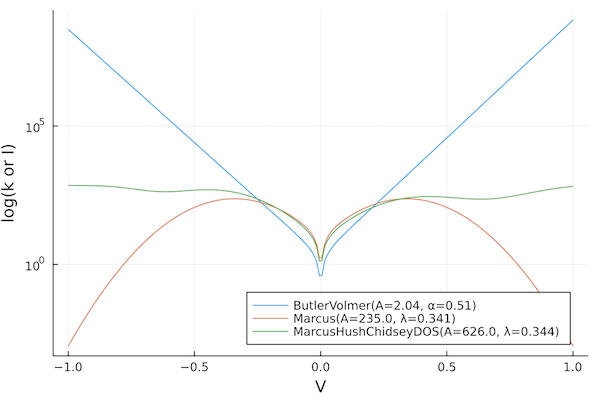
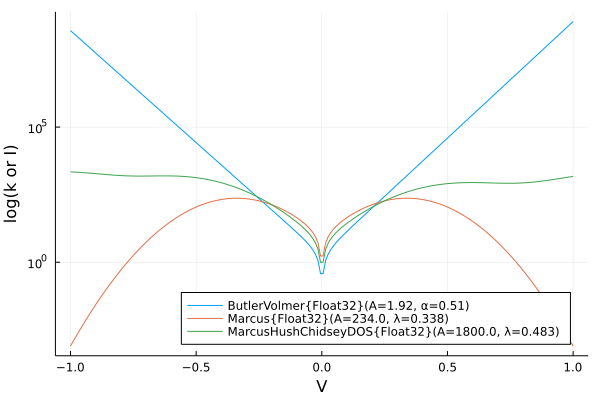
update readme, etc.

diff --git a/README.md b/README.md
@@ -6,18 +6,20 @@ This package implements a variety of models for rates of electrochemical reactio
 ### Building and Evaluating Models
 We can construct a simple Butler-Volmer model with symmetric electron transfer as follows:
 ```julia
-julia> bv = ButlerVolmer(1.0)
+julia> bv = ButlerVolmer()
 ButlerVolmer(A=1.0, α=0.5)
 ```
 To evaluate the model and find the reaction rate at a given voltage is as simple as:
 ```julia
 julia> bv(0.1)
-6.695821798442868
+6.865409234059785
 ```
+(note that this is equivalent to `rate_constant(0.1, bv)`, but this "callable" syntax is often convenient)
+
 By default, this computes the net reaction rate. We can also get the rate only in the oxidative direction by passing the `ox` flag:
 ```julia
 julia> bv(0.1, true)
-6.84197835551441
+7.0081012366762145
 ```
 Let's try a fancier model now. The `MarcusHushChidseyDOS` model requires information about the density of states of the electrode, which we can read from a file:
 ```julia
@@ -42,8 +44,8 @@ Another feature we support for `MarcusHushChidseyDOS` models is incorporating th
 julia> mhcd = MarcusHushChidseyDOS(0.82, "data/DOSes/bernal_graphene.txt")
 MarcusHushChidseyDOS(A=1.0, λ=0.82)
 
-julia> rate_constant(0.4, mhcd; calc_cq=true, Vq_min=-0.45, Vq_max=0.45)
-0.00044958691359217384
+julia> rate_constant(0.15, mhcd, true; calc_cq=true, Vq_min=-0.3, Vq_max=0.3, E_min = -0.6, E_max=0.6)
+2.8017566534572208e-5
 ```
 
 ### Fitting and Comparing Models
@@ -77,43 +79,44 @@ julia> plot_models(models)
 ```
 <img src="img/plot2.png" alt="models">
 
+### Electrochemical Phase Diagrams
+For more on this, see upcoming paper: [arxiv link placeholder]
+
 ## Supported Models
-(I hope the equations below are visible in both dark and light mode...)
 ### Butler-Volmer
-Probably the most basic (and entirely empirical) kinetic model. The rate constants are given by:
+Probably the most basic (and largely empirical) kinetic model. The rate constants are given by:
 
-<img src="img/bv_ox.png" alt="BV_ox">
+$$k_{\text{ox}}^{\text{BV}}(\eta)=A\exp\left(\frac{\alpha\eta}{k_{\text B}T}\right)\\k_{\text{red}}^{\text{BV}}(\eta)=A\exp\left(\frac{(1-\alpha)\eta}{k_{\text B}T}\right)$$
 
-<img src="img/bv_red.png" alt="BV_red">
-
-Implemented in the package as `ButlerVolmer`, possessing two fields: the prefactor `A` and the transfer coefficient `α`.
+It is implemented in the package as `ButlerVolmer`, possessing two fields: the prefactor `A` and the transfer coefficient `α`.
 
 ### Marcus
 One step up with a bit of mechanism...
 
-<img src="img/Marcus.png" alt="Marcus_k">
+$$k_{\text{red/ox}}^{\text{Marcus}}(\eta) = A\exp\left(-\frac{(\lambda\pm\eta)^2}{4k_{\text B}T}\right)$$
 
 Implemented in the package as `Marcus`, with parameters for prefactor `A` and reorganization energy `λ`.
 
 ### Marcus-Hush-Chidsey
 Originated from [Chidsey's 1991 paper](https://dx.doi.org/10.1126/science.251.4996.919).
 
-<img src="img/MHC.png" alt="MHC_k">
+$$k_{\text{red/ox}}^{\text{MHC}}(\eta) = A\int_{-\infty}^\infty \exp\left(-\frac{(\varepsilon-\lambda\mp\eta)^2}{4k_{\text B}T}\right)f_{\text{FD}}(\varepsilon, T)\mathrm d\varepsilon$$
 
 Implemented as `MarcusHushChidsey`, with prefactor `A`, reorganization energy `λ`, and also an `average_dos` parameter (which defaults to 1.0), which is useful for making direct comparisons against `MarcusHushChidseyDOS` (see below).
 
 ### Asymptotic Marcus-Hush-Chidsey
-Originated from [Zeng et al. 2014](https://dx.doi.org/10.1016/j.jelechem.2014.09.038d) (equation 17). Note that in their notation, $\eta$ is scaled by the thermal energy.
+Originated from [Zeng et al. 2014](https://dx.doi.org/10.1016/j.jelechem.2014.09.038d) (equation 17). We have corrected it to recover the correct temperature scaling, [paper link placeholder]
 
 Implemented as `AsymptoticMarcusHushChidsey` with parameters `A` and `λ`.
 
 ### Marcus-Hush-Chidsey + DOS
 Originated from [Kurchin and Viswanathan 2020](https://dx.doi.org/10.1063/5.0023611 ).
 
-<img src="img/MHCD_ox.png" alt="MHCD_ox">
-<img src="img/MHCD_red.png" alt="MHCD_red">
+$$k_{\text{ox}}^{\text{MHCKV}}(\eta)=A\int_{-\infty}^\infty\mathcal{D}(\varepsilon)\exp\left(-\frac{(\lambda-\eta+\varepsilon)^2}{4\lambda k_{\text{B}}T}\right)(1-f_{\text{FD}}(\varepsilon,T))\mathrm{d}\varepsilon\\
+k_{\text{red}}^{\text{MHCKV}}(\eta)=A\int_{-\infty}^\infty\mathcal{D}(\varepsilon)\exp\left(-\frac{(\lambda+\eta-\varepsilon)^2}{4\lambda k_{\text{B}}T}\right)f_{\text{FD}}(\varepsilon,T)\mathrm{d}\varepsilon$$
 
-Implemented as `MarcusHushChidseyDOS`, with parameters `A`, `λ`, and `dos`, which must be a `DOSData` object.
+
+Implemented as `MarcusHushChidseyDOS`, with parameters `A`, `λ`, and `dos`, which must be a `DOSData` object (can be automatically constructed from a two-column text file of energies and DOS values).
 
 ## Contributing
 We are happy to take pull requests for new features, new models, etc. by pull request! It is suggested (though not required) that you first open an issue to discuss.
